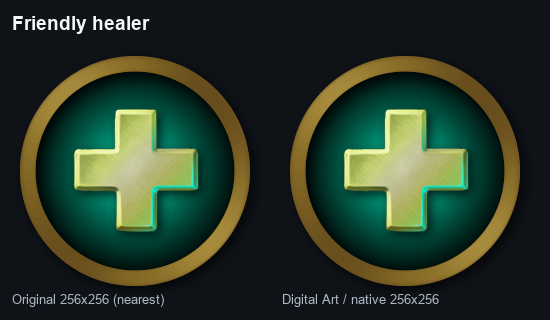
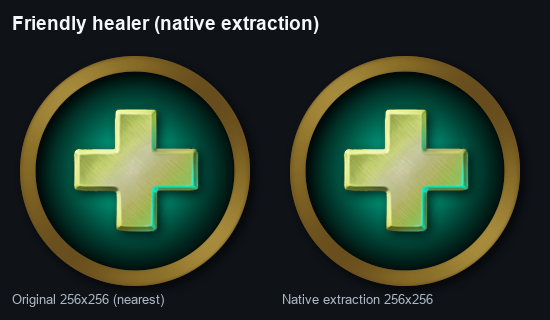
save

Changed region(s): [[0.5255, 0.9062, 0.8036, 0.9688], [0.2782, 0.0312, 0.5873, 0.0938]]

diff --git a/wow-icon-upscale-workbench/run-auxiliary-icon-batch.py b/wow-icon-upscale-workbench/run-auxiliary-icon-batch.py
@@ -25,7 +25,13 @@ def load_font(size: int, bold: bool = False) -> ImageFont.FreeTypeFont | ImageFo
         return ImageFont.load_default()
 
 
-def make_pair(source: Path, output: Path, destination: Path, label: str) -> None:
+def make_pair(
+    source: Path,
+    output: Path,
+    destination: Path,
+    label: str,
+    processing: str,
+) -> None:
     with Image.open(source) as source_image, Image.open(output) as output_image:
         original = source_image.convert("RGBA").resize((256, 256), Image.Resampling.NEAREST)
         generated = output_image.convert("RGBA")
@@ -35,7 +41,12 @@ def make_pair(source: Path, output: Path, destination: Path, label: str) -> None
         draw = ImageDraw.Draw(canvas)
         draw.text((12, 12), label, fill=(245, 247, 250, 255), font=load_font(19, True))
         draw.text((12, 292), f"Original {source_image.width}x{source_image.height} (nearest)", fill=(174, 184, 196, 255), font=load_font(13))
-        draw.text((282, 292), "Digital Art / native 256x256", fill=(174, 184, 196, 255), font=load_font(13))
+        output_label = (
+            "Native extraction 256x256"
+            if processing == "native-extraction"
+            else "Digital Art / native 256x256"
+        )
+        draw.text((282, 292), output_label, fill=(174, 184, 196, 255), font=load_font(13))
         canvas.save(destination, format="PNG")
 
 
@@ -104,7 +115,13 @@ def main() -> None:
                 generated.save(output, format="PNG")
 
         pair = individual / name
-        make_pair(source, output, pair, asset["label"])
+        make_pair(
+            source,
+            output,
+            pair,
+            asset["label"],
+            asset.get("processing", "digital-art-4x"),
+        )
         with Image.open(source) as source_image, Image.open(output) as output_image:
             report_assets.append(
                 {
@@ -121,7 +138,7 @@ def main() -> None:
     sheet = Image.new("RGBA", (1120, sheet_height), (11, 15, 20, 255))
     draw = ImageDraw.Draw(sheet)
     draw.text((20, 16), "SweepyBoop auxiliary icons", fill=(245, 247, 250, 255), font=load_font(24, True))
-    draw.text((20, 48), "Original Blizzard source vs Digital Art / native 256x256", fill=(174, 184, 196, 255), font=load_font(15))
+    draw.text((20, 48), "Original Blizzard source vs approved 256x256 runtime asset", fill=(174, 184, 196, 255), font=load_font(15))
     for index, asset in enumerate(assets):
         pair_path = individual / f'{asset["outputName"]}.png'
         with Image.open(pair_path) as pair:

diff --git a/wow-icon-upscale-workbench/README.md b/wow-icon-upscale-workbench/README.md
@@ -274,7 +274,7 @@ The helper preserves the 256x256 RGB pixels, forces opaque alpha, validates the 
 
 ## Auxiliary icons
 
-The auxiliary workflow covers the friendly healer, universal red enemy healer, arena-frame healer, pet, and three flag-carrier icons. Atlas coordinates come from `TextureAtlasViewer/Data_Mainline.lua`; source pixels come from the corresponding current Retail BLP files. Run extraction and inference with:
+The auxiliary workflow covers the friendly healer, universal red enemy healer, arena-frame healer, pet, and three flag-carrier icons. Atlas coordinates come from `TextureAtlasViewer/Data_Mainline.lua`; source pixels come from the corresponding current Retail BLP files. The friendly healer is bundled as an unchanged native 256x256 extraction for consistent standalone-texture handling; it is not AI-upscaled because that provides no quality gain. Run extraction and inference with:
 
 ```powershell
 .\scratch\python\Scripts\python.exe `
@@ -302,7 +302,7 @@ The approved backup is `../Docs/IconUpscaleBackup-Auxiliary/`. Promote it while 
     ..\Art\AuxiliaryIcons
 ```
 
-The same bundled `HealerEnemy` texture is used on Retail and Mists; TBC's existing no-enemy-spec behavior is unchanged.
+The same bundled `Healing_Red` texture is used on Retail and Mists; TBC's existing no-enemy-spec behavior is unchanged.
 
 ## Continuing the work
 
